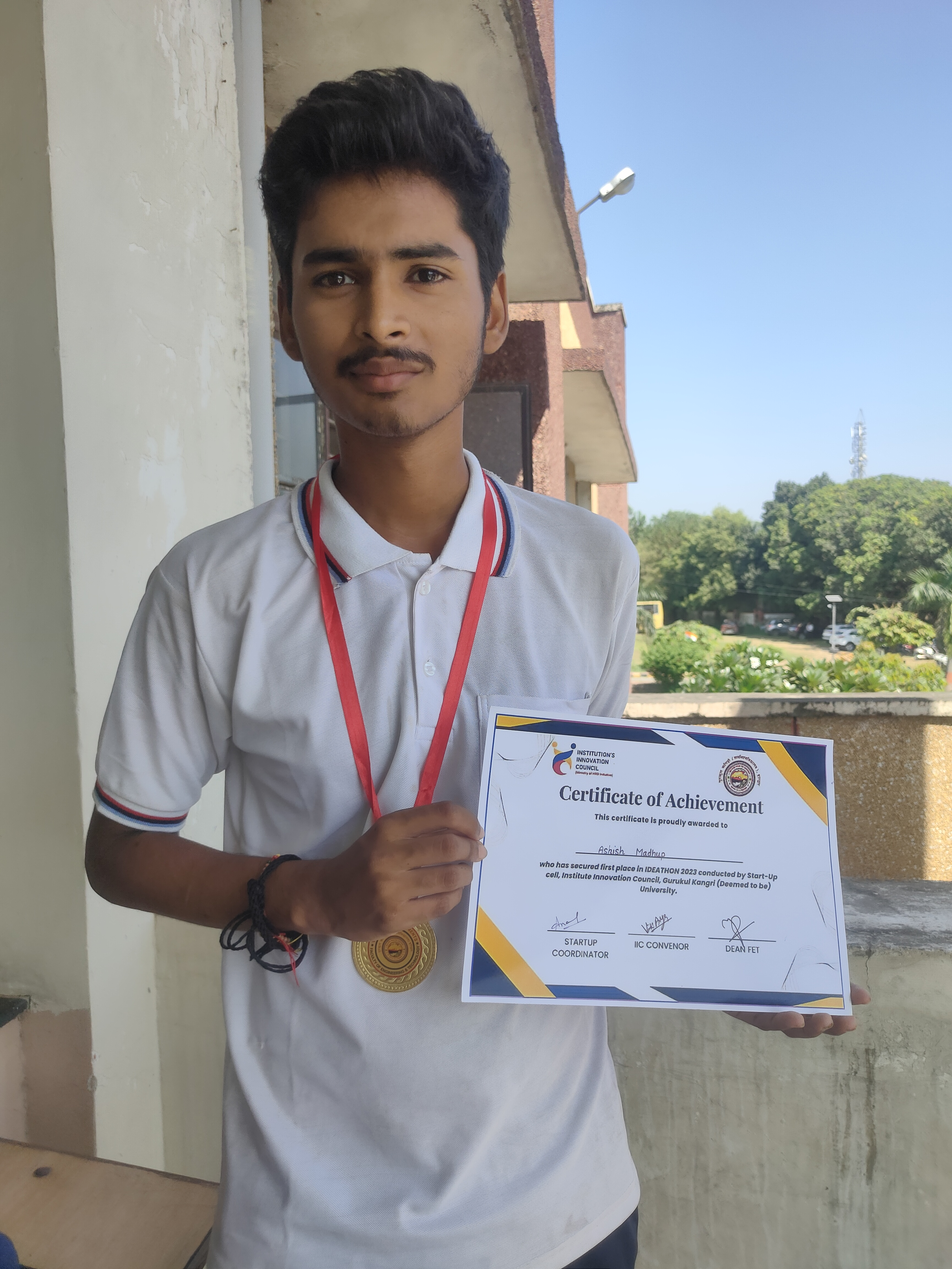
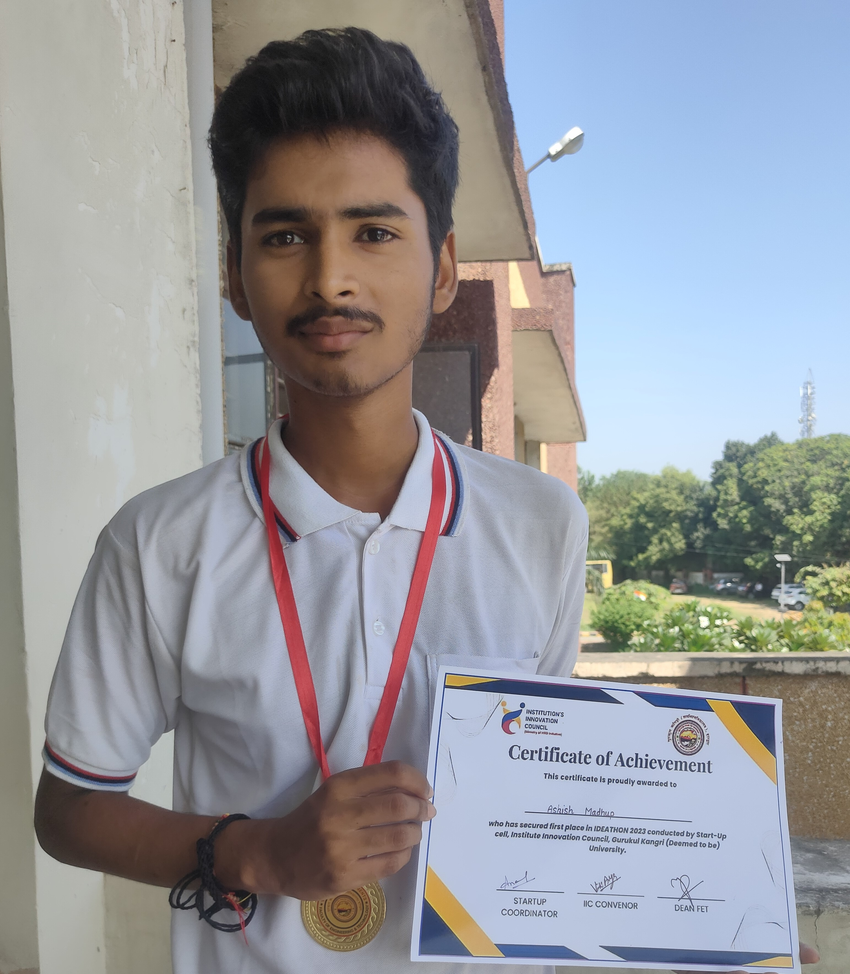
New

diff --git a/src/Components/Home.jsx b/src/Components/Home.jsx
@@ -20,7 +20,7 @@ import PropTypes from "prop-types";
  * Need an image? Check out https://unsplash.com to download a photo you
  * freely use on your site.
  */
-import image from "../images/WhatsApp Image 2023-09-14 at 23.22.03.jpg";
+import image from "../images/IMG20231012123609.jpg";
 
 const imageAltText = "Ashish Madhup - Software Developer";
 
